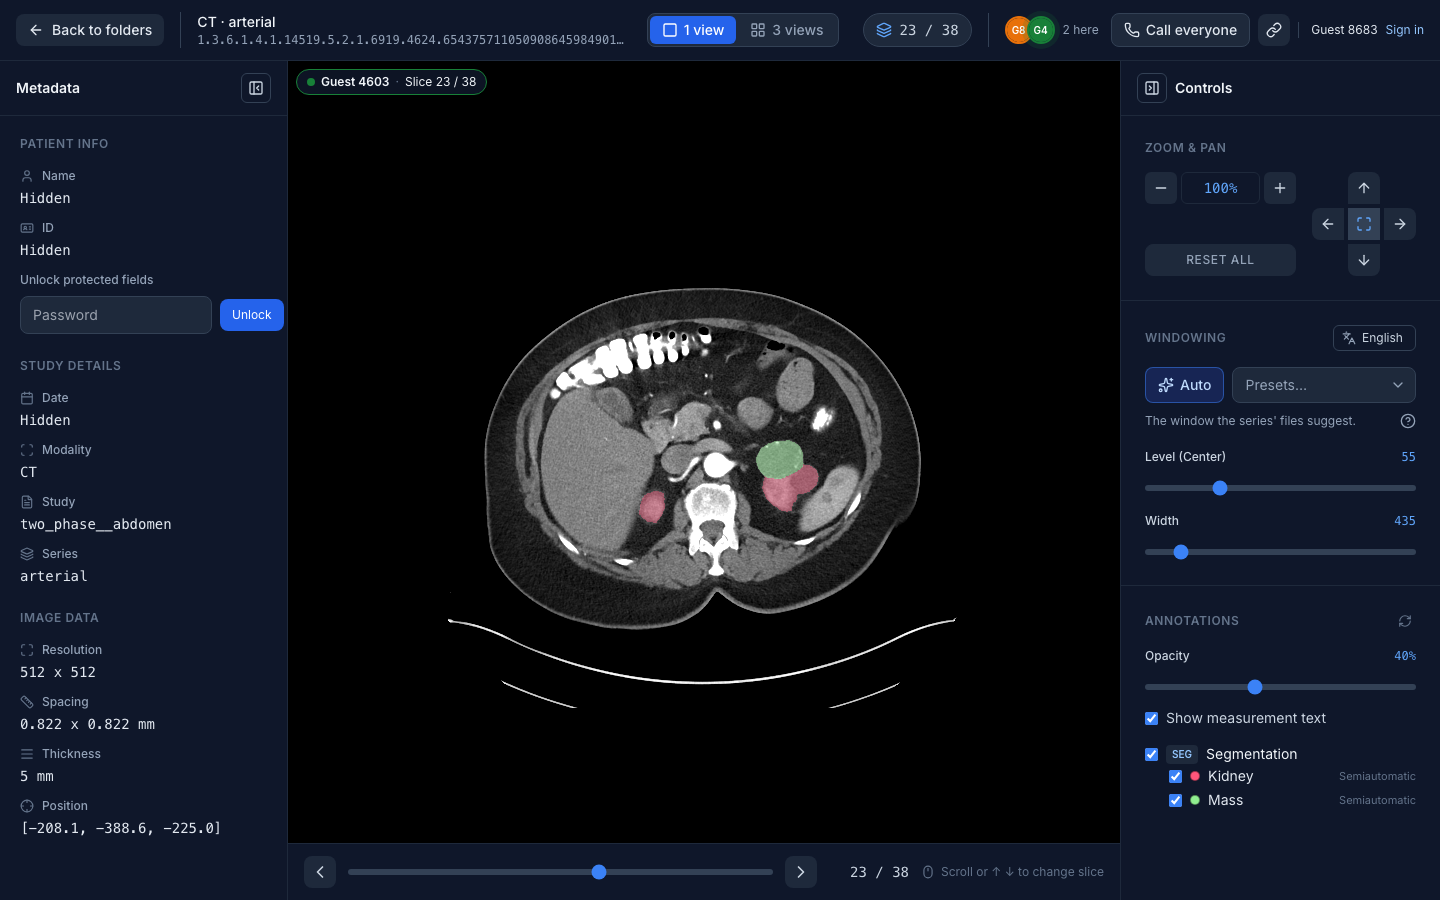
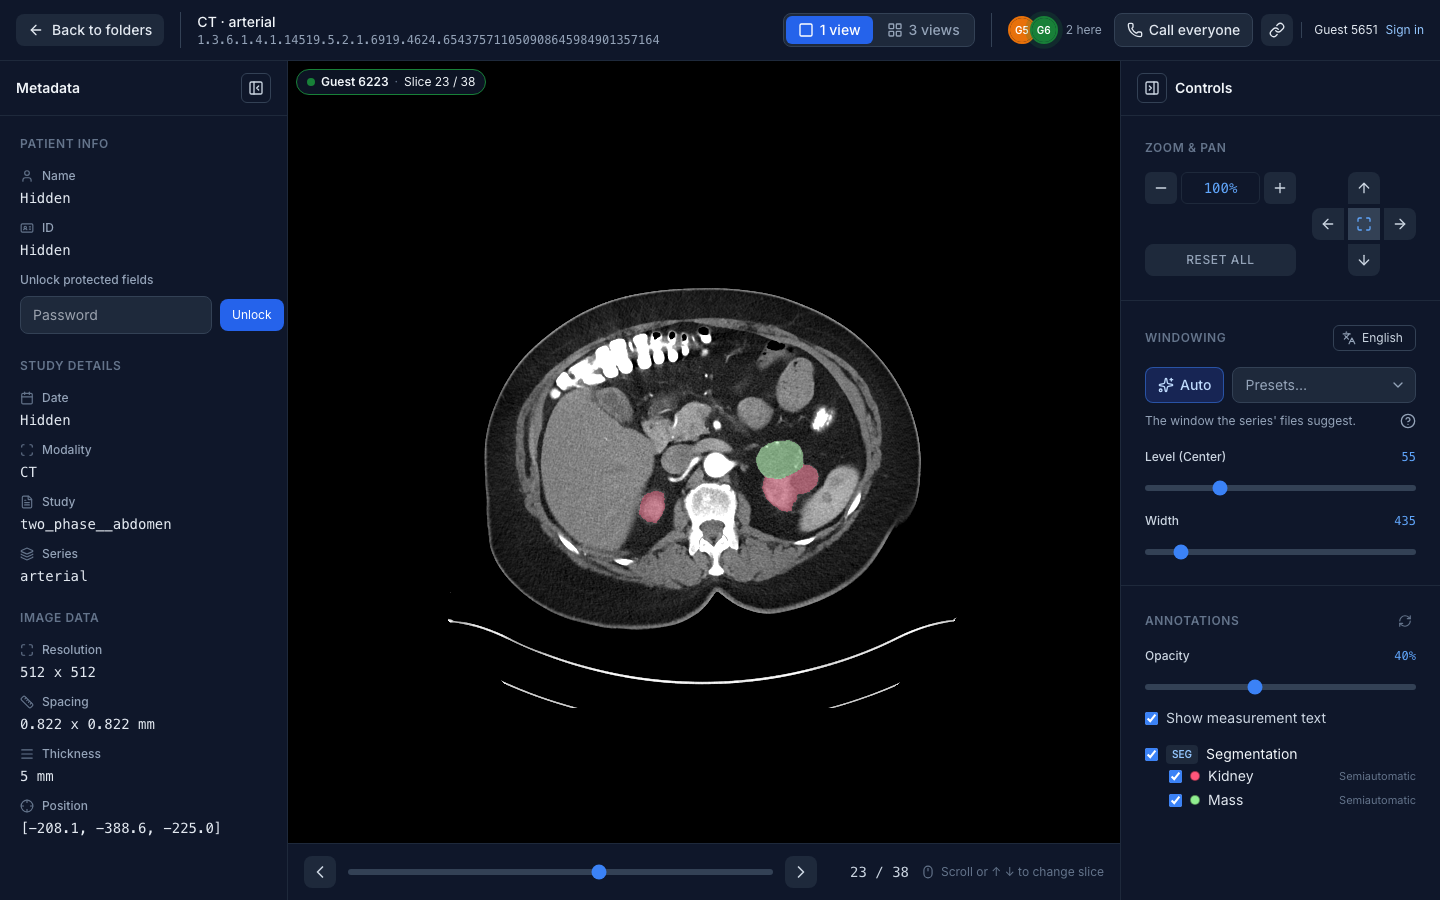
refactor: drop the top bar's slice counter, which the slice bar already shows

diff --git a/dicom_viewer/components/together.py b/dicom_viewer/components/together.py
@@ -8,6 +8,11 @@ from dicom_viewer.api import BYE_PATH
 from dicom_viewer.states.dicom_state import AuthState, DicomViewerState
 from dicom_viewer.states.room import SeriesRoom
 
+try:
+    from reflex_ddns_auth.intent import Intent
+except ImportError:  # no DDNS libraries: no profiles to open
+    Intent = None
+
 # This tab, as the room names it.
 ME = DicomViewerState.me["peer"]
 
@@ -34,13 +39,18 @@ def peer_avatar(p) -> rx.Component:
             style={"backgroundColor": p["color"]},
         ),
     )
-    return rx.el.span(
+    signed_in = p["user"].to(str).contains("@")
+    return rx.el.button(
         face,
+        # Signed-in people have a profile (Relack's User Profile); guests have none.
+        on_click=rx.cond(signed_in, Intent.start("relack", "profile.view", label="User Profile", user=p["user"]), rx.noop()) if Intent is not None else rx.noop(),
+        disabled=~signed_in,
+        type="button",
         # A new key restarts the pulse.
         key=rx.cond(acting, p["id"].to(str) + "-" + SeriesRoom.actor_rev.to_string(), p["id"].to(str)),
         title=p["name"],
         custom_attrs={"data-name": p["name"]},
-        class_name=rx.cond(acting, "dv-person dv-acting", "dv-person"),
+        class_name=rx.cond(acting, "dv-person dv-acting enabled:cursor-pointer", "dv-person enabled:cursor-pointer"),
         style={"color": p["color"], "borderColor": p["color"]},
     )
 
@@ -56,6 +66,8 @@ def presence() -> rx.Component:
             id="people-count",
             class_name="text-xs text-slate-400 whitespace-nowrap",
         ),
+        # You, and signing in or out, go with the people here.
+        rx.el.div(identity(), class_name="flex items-center pl-2 ml-1 border-l border-slate-700"),
         id="presence",
         class_name="flex items-center gap-2 min-w-0",
     )

diff --git a/dicom_viewer/components/viewer.py b/dicom_viewer/components/viewer.py
@@ -5,7 +5,6 @@ from dicom_viewer.components.call_views import call_button, incoming_call
 from dicom_viewer.components.three_views import three_views
 from dicom_viewer.components.together import (
     actor_badge,
-    identity,
     page_hooks,
     presence,
     share_button,
@@ -737,18 +736,6 @@ def top_bar() -> rx.Component:
                 view_mode_switch(),
                 drawer_button("metadata", "info", "Metadata"),
                 drawer_button("controls", "sliders-horizontal", "Controls"),
-                rx.cond(
-                    SeriesRoom.view_mode == "single",
-                    rx.el.div(
-                        rx.icon("layers", class_name="h-4 w-4 mr-2 text-blue-400"),
-                        rx.el.span(
-                            SeriesRoom.current_position_text,
-                            class_name="font-mono text-sm text-slate-300",
-                        ),
-                        title="Slice / slices in this series",
-                        class_name="hidden lg:flex items-center bg-slate-800 px-3 py-1.5 rounded-full border border-slate-700",
-                    ),
-                ),
                 class_name="flex items-center gap-2 sm:gap-3 lg:gap-6 shrink-0",
             ),
         ),
@@ -765,7 +752,6 @@ def people_bar() -> rx.Component:
         rx.el.div(
             call_button(),
             share_button(),
-            rx.el.div(identity(), class_name="hidden xl:flex items-center pl-3 border-l border-slate-700"),
             class_name="flex items-center gap-2 shrink-0",
         ),
         class_name="order-last lg:order-none basis-full lg:basis-auto flex items-center justify-between lg:justify-end gap-2 sm:gap-3 lg:pl-4 lg:border-l lg:border-slate-700",
